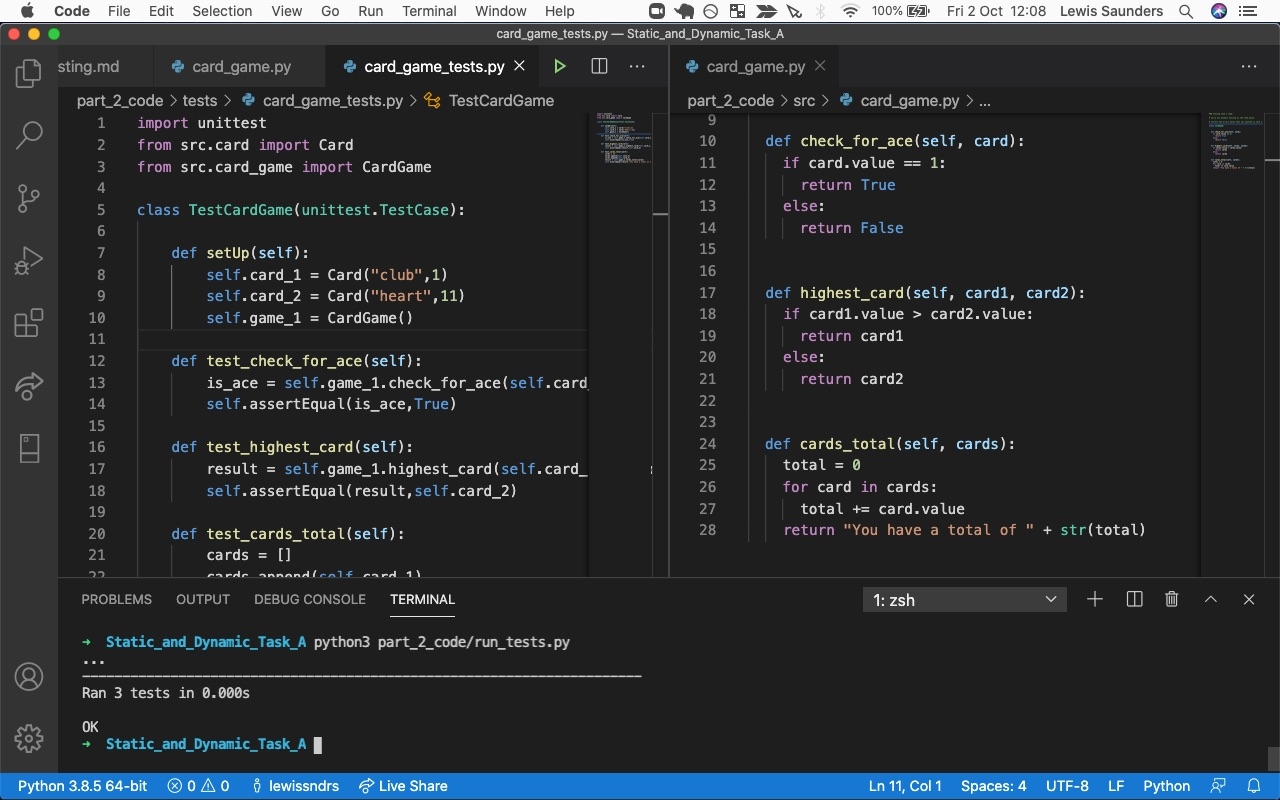
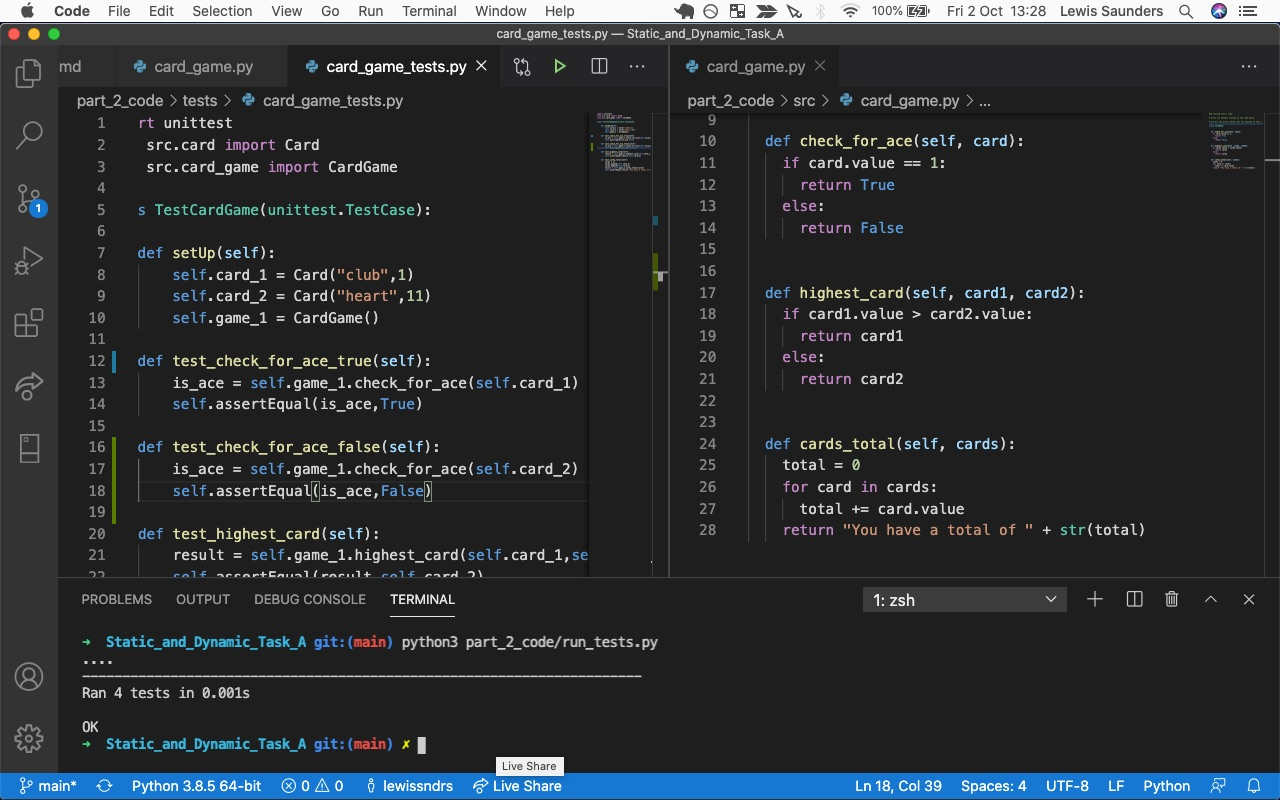
added test for false result

diff --git a/part_2_code/tests/card_game_tests.py b/part_2_code/tests/card_game_tests.py
@@ -9,9 +9,13 @@ class TestCardGame(unittest.TestCase):
         self.card_2 = Card("heart",11)
         self.game_1 = CardGame()
 
-    def test_check_for_ace(self):
+    def test_check_for_ace_true(self):
         is_ace = self.game_1.check_for_ace(self.card_1)
         self.assertEqual(is_ace,True)
+
+    def test_check_for_ace_false(self):
+        is_ace = self.game_1.check_for_ace(self.card_2)
+        self.assertEqual(is_ace,False)
 
     def test_highest_card(self):
         result = self.game_1.highest_card(self.card_1,self.card_2)
